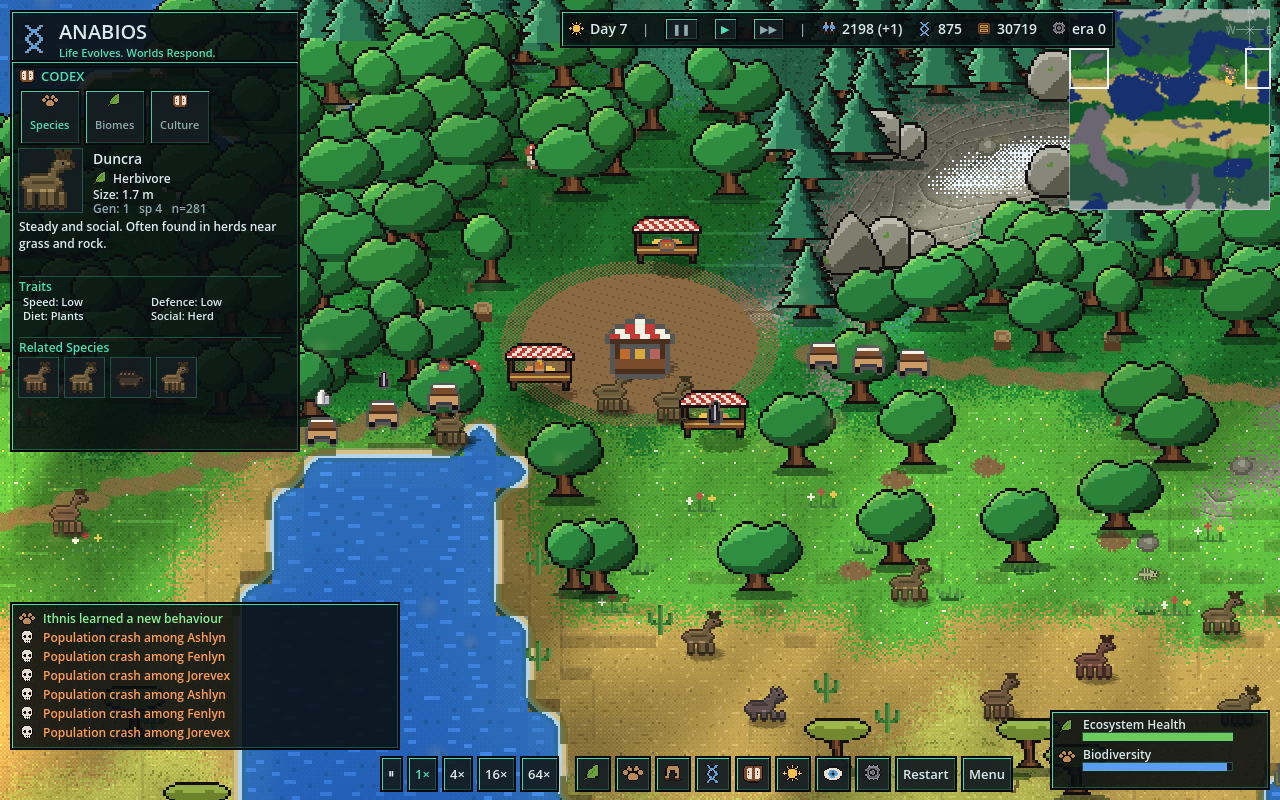
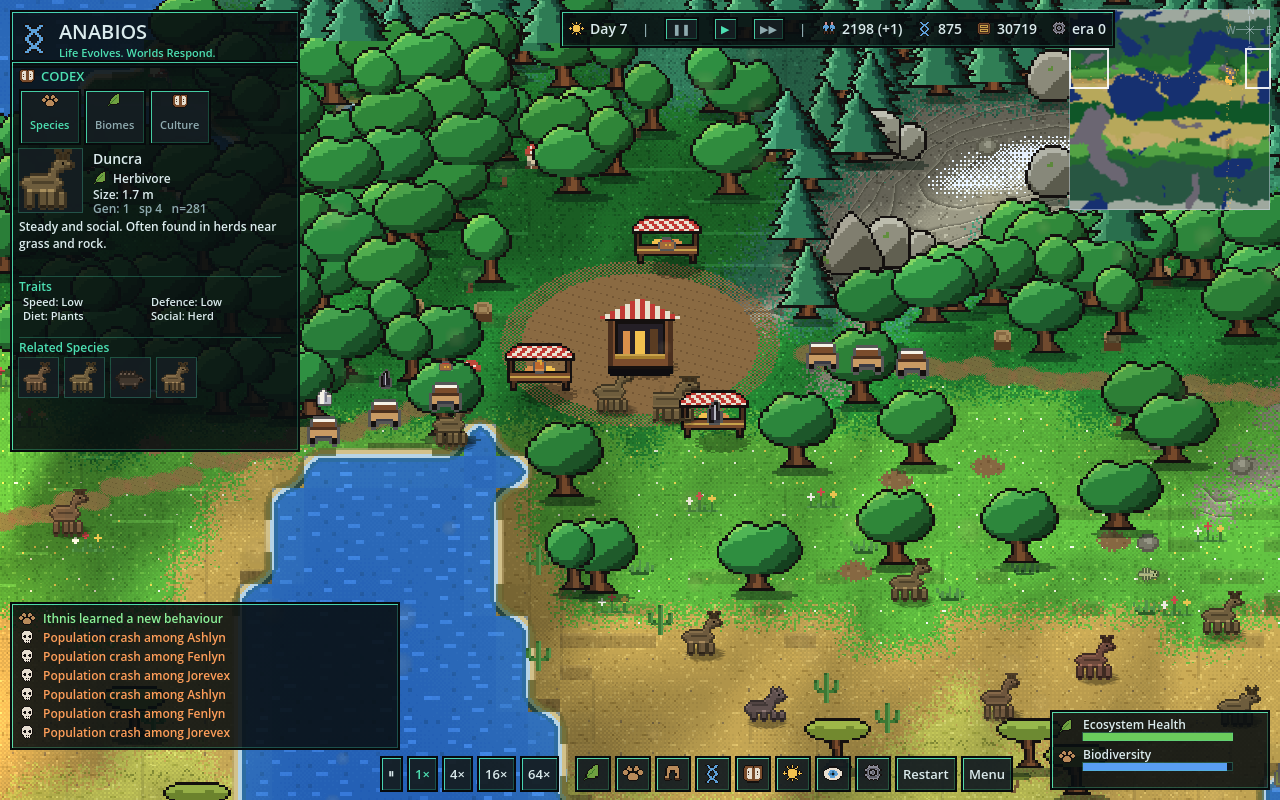
viewer: 32 px market hall and warehouse, invention markers at the grain
The hub centrepieces were 16 px icon blocks drawn at 20 units, twice
the pixel size of the stalls and structures beside them. Two new
structure kinds (MarketHall: a peaked awning over a timber counter hall
with goods on the counter; Warehouse: a plank-roofed storehouse with a
double door, crates and a barrel) are authored at 32 px with the walled
tall variant, and BuildingSprites serves them for MARKET and WAREHOUSE
(HI_RES_KINDS, height_ratio); the hub and village layers draw them on a
44/32 quad with the base kept on the square. The 22 invention landmarks
stay 16 px markers but draw at 12 units so their texel matches the
structures' grain. Gallery: the two market stills.

Claude-Session: https://claude.ai/code/session_019kbTtZKC2VJBPY6SALU64h

diff --git a/gallery/README.md b/gallery/README.md
@@ -49,9 +49,9 @@ pins an agent in the unit card.
 | scale-settlement-t1020-codex-species-2x.png | `settlement` t1020 2× (`ANABIOS_CODEX_TAB=1`) | The settlement peninsula: flat lake water with block ripples, dithered biome borders, mixed oak silhouettes, olive savanna, resting herds with their heads up, the HUD. |
 | scale-settlement-t1591-1x.png | `settlement` t1591 1× | The same world at 1×: dirt roads threading between the market squares. |
 | scale-settlement-t691-overview.png | `settlement` t691, `ANABIOS_CAM_FIT=1` | Whole-world framing: the overview mip with the density dots. |
-| scale-settlement-t891-market-8x.png | `settlement` t891 8× at (1060, 298) | The market square up close: stalls, goods on the counters, carts, the square's earth at the ground tiles' grain. |
+| scale-settlement-t891-market-8x.png | `settlement` t891 8× at (1060, 298) | The market square up close: the 32 px market hall (awning over a walled counter, the same pixel grain as the stalls), stalls, goods on the counters, carts, the square's earth at the ground tiles' grain. |
 | scale-trade-hubs-t600-roads-2x.png | `trade-hubs` t600 2× at (1060, 298) | Dirt roads worn along the caravan routes from the market square through the woods, stopping at the water. |
-| scale-trade-hubs-t600-market-4x.png | `trade-hubs` t600 4× at (1060, 298) | A trade hub as a market square in the woods with its roads leading off, a snow patch with an ordered-dither edge on the outcrop behind it. |
+| scale-trade-hubs-t600-market-4x.png | `trade-hubs` t600 4× at (1060, 298) | A trade hub as a market square in the woods, its market hall at the structures' pixel size, its roads leading off, a snow patch with an ordered-dither edge on the outcrop behind it. |
 | scale-riverlands-t291-relief-2x.png | `riverlands` t291 2× | Rivers with waterfalls on their steep stretches, contour-ledged mountains in warm olive stone with a dithered snow line, forests mixing three oaks at 0.7 scale (a tree a little taller than a house, not three huts high), clutter on the grass. |
 | scale-riverlands-t291-river-4x.png | `riverlands` t291 4× at (2367, 1017) | A one-cell river running diagonally through the oaks as one stream between mud banks: the diagonal coast tiles carry a channel instead of pinching the cells into beads, and a river shore is bank, not beach. |
 | scale-riverlands-t291-clutter-4x.png | `riverlands` t291 4× at (2500, 1200) | Flowers, tufts, mushrooms and stumps at 4×. |
